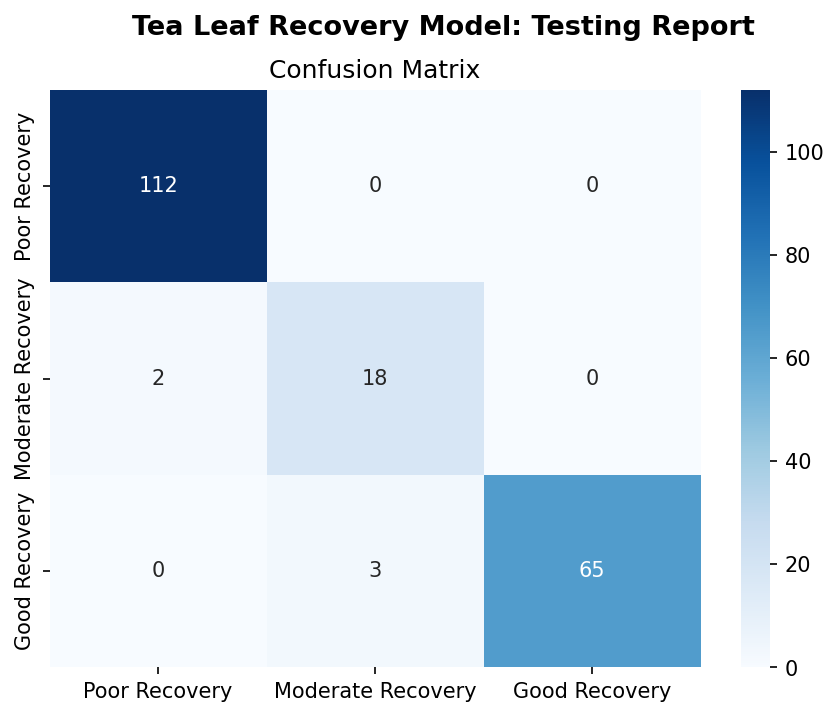
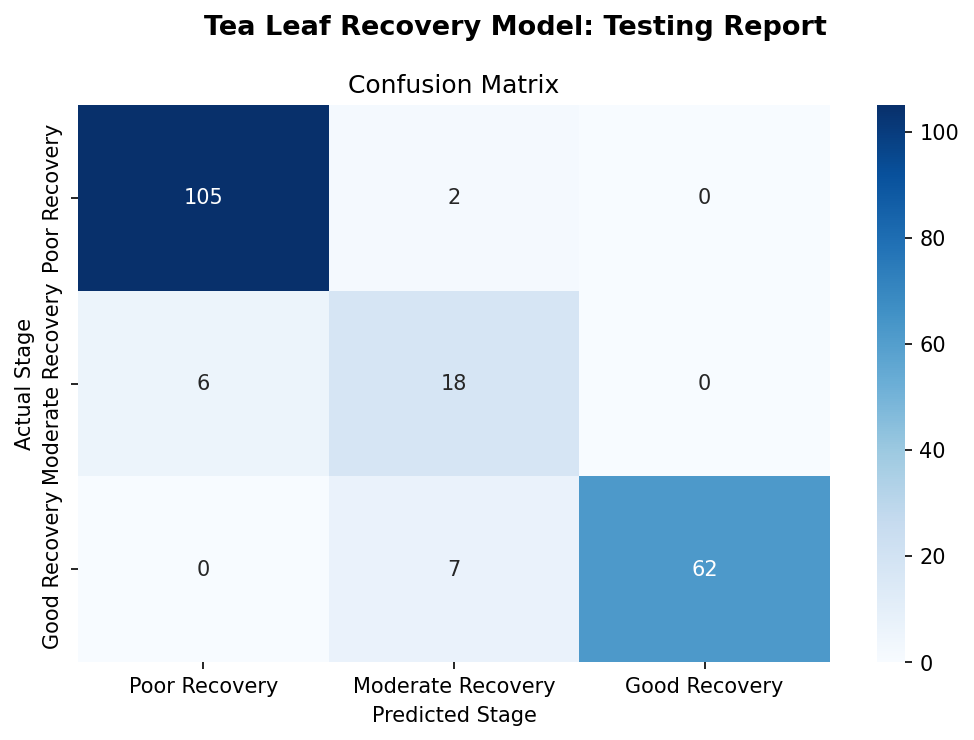
Updating testing script

diff --git a/testing.py b/testing.py
@@ -14,7 +14,6 @@ y_test = data['y_test'] * 100.0
 y_pred = model.predict(X_test).flatten() * 100.0
 
 # Regression Metrics
-
 mae  = mean_absolute_error(y_test, y_pred)
 rmse = np.sqrt(mean_squared_error(y_test, y_pred))
 r2   = r2_score(y_test, y_pred)
@@ -25,36 +24,34 @@ print(f"  RMSE : {rmse:.2f}")
 print(f"  R²   : {r2:.4f}")
 print("─────────────────────────────────────────────\n")
 
-# Converting the scores to stage 3 labels
-
+# Convert scores to 3 stage labels
 def score_to_stage(score):
     if score >= 70:   return "Good Recovery"
     elif score >= 40: return "Moderate Recovery"
     else:             return "Poor Recovery"
 
-stage_order = ["Poor Recovery", "Moderate Recovery", "Good Recovery"]
-
+stage_order   = ["Poor Recovery", "Moderate Recovery", "Good Recovery"]
 y_test_labels = [score_to_stage(s) for s in y_test]
 y_pred_labels = [score_to_stage(s) for s in y_pred]
 
 # Classification Report
-
 print("── Classification Report ─────────────────────")
 print(classification_report(y_test_labels, y_pred_labels,
                              labels=stage_order, zero_division=0))
 
 # Confusion Matrix
-
 cm = confusion_matrix(y_test_labels, y_pred_labels, labels=stage_order)
 
-fig, axes = plt.subplots(1, 1, figsize=(7, 5))
+fig, ax = plt.subplots(figsize=(7, 5))
 fig.suptitle('Tea Leaf Recovery Model: Testing Report', fontsize=13, fontweight='bold')
 
 sns.heatmap(cm, annot=True, fmt='d', cmap='Blues',
-            xticklabels=stage_order, yticklabels=stage_order, ax=axes)
-axes.set_title('Confusion Matrix')
+            xticklabels=stage_order, yticklabels=stage_order, ax=ax)
+ax.set_title('Confusion Matrix')
+ax.set_xlabel('Predicted Stage')
+ax.set_ylabel('Actual Stage')
 
-
+plt.tight_layout()
 plt.savefig('testing_report.png', dpi=150, bbox_inches='tight')
 plt.show()
 print("\nPlot saved as testing_report.png")
